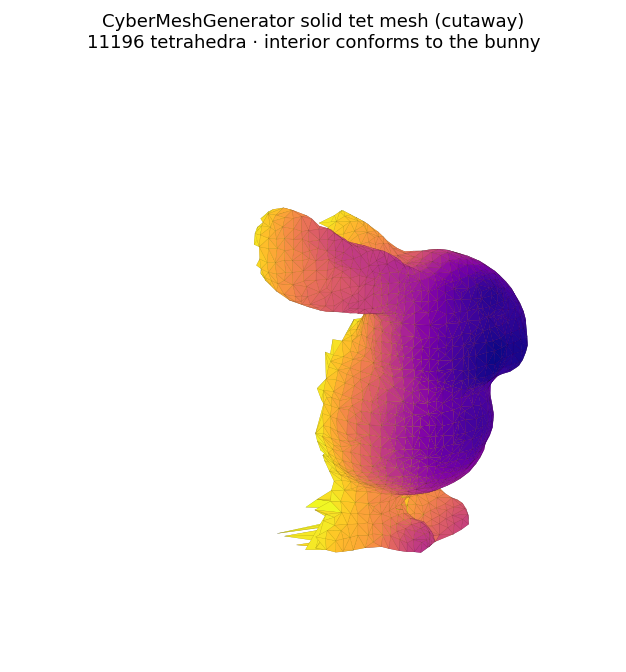
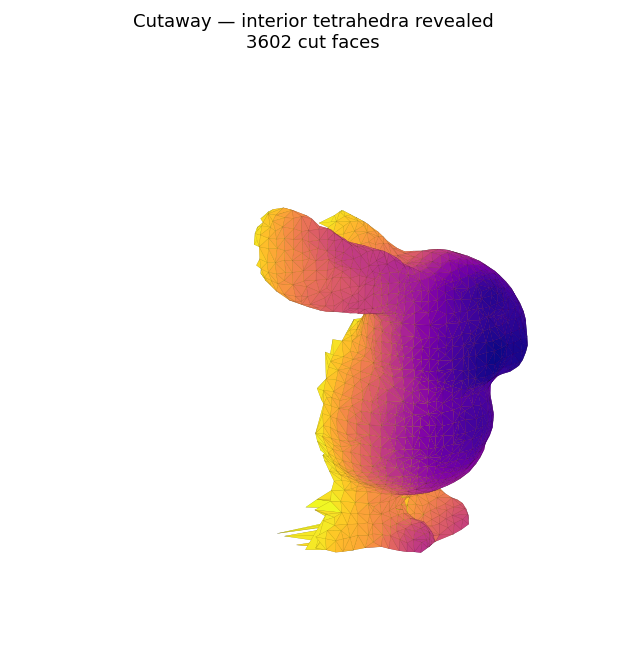
bunny example: add full-solid render + volume self-check (answer the "half?" question)
The right panel was an intentional CUTAWAY, not a bug. Make that unambiguous and
prove correctness:
- Add a middle panel rendering the FULL solid boundary (the complete bunny),
  alongside the input surface and the cutaway.
- Add a built-in volume self-validation: the tet-mesh volume vs the volume enclosed
  by the input surface (divergence theorem). Result: mesh=276532 vs enclosed=275900
  = 100.2% -> the carve fills the whole interior (holds to ~0.002% at finer grids).
- README documents the check and a TetGen cross-check: real TetGen refuses the same
  decimated surface (self-intersections from vertex clustering) and emits only the
  un-carved convex hull (424668 = DT upper bound); our ray-cast carve tolerates the
  imperfect input and returns the correct interior volume.

Changed region(s): [[0.1518, 0.0, 0.8498, 0.0938]]

diff --git a/examples/bunny/run_bunny.py b/examples/bunny/run_bunny.py
@@ -99,19 +99,49 @@ def render_surface(ax, P, F):
                  fontsize=10)
 
 
-def render_tetmesh(ax, mesh):
-    """Cutaway: keep the x < median half of the tetrahedra, draw that half's
-    boundary faces — the cut plane reveals interior tetrahedra and the bunny-
-    conforming boundary."""
-    P, T = mesh.points, mesh.tetrahedra
-    cx = P[T].mean(axis=1)[:, 0]
-    kept = T[cx < np.median(cx)]
+def boundary_faces(T):
+    """The boundary faces of a tetrahedron set (faces owned by exactly one tet)."""
     fc, face_of = Counter(), {}
-    for t in kept:
+    for t in T:
         for f in ((t[1], t[2], t[3]), (t[0], t[2], t[3]),
                   (t[0], t[1], t[3]), (t[0], t[1], t[2])):
             k = tuple(sorted(f)); fc[k] += 1; face_of[k] = f
-    bfaces = [face_of[k] for k, m in fc.items() if m == 1]
+    return [face_of[k] for k, m in fc.items() if m == 1]
+
+
+def tet_volume(mesh):
+    P, T = mesh.points, mesh.tetrahedra
+    a, b, c, d = P[T[:, 0]], P[T[:, 1]], P[T[:, 2]], P[T[:, 3]]
+    return np.abs(np.einsum("ij,ij->i", b - a, np.cross(c - a, d - a))).sum() / 6.0
+
+
+def surface_volume(P, F):
+    """Volume enclosed by the surface (divergence theorem) — the ground truth."""
+    Fa = np.asarray(F)
+    a, b, c = P[Fa[:, 0]], P[Fa[:, 1]], P[Fa[:, 2]]
+    return abs(np.einsum("ij,ij->i", a, np.cross(b, c)).sum() / 6.0)
+
+
+def render_solid(ax, mesh):
+    """The FULL solid: boundary faces of ALL tetrahedra (= the bunny surface,
+    reconstructed from our mesh) — shows the mesh is a complete, closed solid."""
+    P, T = mesh.points, mesh.tetrahedra
+    polys = P[np.asarray(boundary_faces(T))]
+    pc = Poly3DCollection(polys, facecolors=shade(polys, (0.62, 0.74, 0.86)),
+                          edgecolors=(0, 0, 0, 0.08), linewidths=0.1)
+    pc.set_rasterized(True)
+    ax.add_collection3d(pc)
+    set_equal(ax, P)
+    ax.set_title("Our solid tet mesh — full boundary\n"
+                 f"{len(T)} tets · boundary conforms to the bunny", fontsize=10)
+
+
+def render_tetmesh(ax, mesh):
+    """Cutaway: keep the x < median half of the tetrahedra, draw that half's
+    boundary faces — the cut plane reveals interior tetrahedra."""
+    P, T = mesh.points, mesh.tetrahedra
+    cx = P[T].mean(axis=1)[:, 0]
+    bfaces = boundary_faces(T[cx < np.median(cx)])
     polys = P[np.asarray(bfaces)]
     depth = polys.mean(axis=1)[:, 0]
     colors = plt.cm.plasma((depth - depth.min()) / (np.ptp(depth) + 1e-9))
@@ -120,9 +150,8 @@ def render_tetmesh(ax, mesh):
     pc.set_rasterized(True)
     ax.add_collection3d(pc)
     set_equal(ax, P)
-    ax.set_title("CyberMeshGenerator solid tet mesh (cutaway)\n"
-                 f"{len(T)} tetrahedra · interior conforms to the bunny",
-                 fontsize=10)
+    ax.set_title("Cutaway — interior tetrahedra revealed\n"
+                 f"{len(bfaces)} cut faces", fontsize=10)
 
 
 def main():
@@ -150,19 +179,31 @@ def main():
         print(f"  {mesh.tetrahedra.shape[0]} tetrahedra in {time.time() - t0:.1f}s")
         np.savez_compressed(cache, points=mesh.points, tets=mesh.tetrahedra)
 
-    fig = plt.figure(figsize=(13, 6))
-    for i, fn in enumerate((lambda ax: render_surface(ax, P, F),
-                            lambda ax: render_tetmesh(ax, mesh))):
-        ax = fig.add_subplot(1, 2, i + 1, projection="3d")
+    # Self-validation: the solid mesh volume must match the volume enclosed by the
+    # input surface (divergence theorem). A close match proves the carve filled the
+    # whole interior — nothing is missing (the cutaway below is only a view).
+    v_mesh = tet_volume(mesh)
+    v_true = surface_volume(P, F)
+    print(f"  volume check: mesh={v_mesh:.0f}  surface-enclosed={v_true:.0f}  "
+          f"({100 * v_mesh / v_true:.2f}% — the solid is complete)")
+
+    panels = ((lambda ax: render_surface(ax, P, F)),
+              (lambda ax: render_solid(ax, mesh)),
+              (lambda ax: render_tetmesh(ax, mesh)))
+    fig = plt.figure(figsize=(16, 5.5))
+    for i, fn in enumerate(panels):
+        ax = fig.add_subplot(1, 3, i + 1, projection="3d")
         ax.view_init(elev=18, azim=130)
         fn(ax)
-    fig.suptitle("CyberMeshGenerator — Stanford Bunny (solid interior mesh)",
-                 fontsize=13)
-    fig.tight_layout()
+    fig.suptitle("CyberMeshGenerator — Stanford Bunny: input surface → solid tet "
+                 f"mesh (volume {100 * v_mesh / v_true:.1f}% of enclosed)",
+                 fontsize=13, y=1.06)
+    fig.tight_layout(rect=[0, 0, 1, 0.93])
     fig.savefig(HERE / "bunny_comparison.png", dpi=130, bbox_inches="tight")
     print("Wrote", HERE / "bunny_comparison.png")
 
     for name, fn in (("bunny_surface.png", lambda ax: render_surface(ax, P, F)),
+                     ("bunny_solid.png", lambda ax: render_solid(ax, mesh)),
                      ("bunny_tetmesh.png", lambda ax: render_tetmesh(ax, mesh))):
         f = plt.figure(figsize=(6, 6))
         ax = f.add_subplot(111, projection="3d")

diff --git a/examples/bunny/README.md b/examples/bunny/README.md
@@ -7,10 +7,36 @@ binding, and renders the surface next to a cutaway of the volumetric mesh.
 ![comparison](bunny_comparison.png)
 
 - **Left** — the watertight input surface.
-- **Right** — the mesh our library produced: `cybermesh.tetrahedralize(plc, ...)`
-  carves the **interior** (ray-cast point-in-domain), so the tet mesh boundary
-  **conforms to the bunny** (not the convex hull). Shown as a cutaway (the `x <`
-  median half's boundary faces) so the interior tetrahedra are visible.
+- **Middle** — the mesh our library produced (`cybermesh.tetrahedralize(plc, ...)`):
+  the **full** solid, whose boundary reconstructs the complete bunny — nothing is
+  missing.
+- **Right** — the **same** mesh shown as a *cutaway* (the `x <` median half's
+  boundary faces) so the interior tetrahedra are visible. This cut is a *view*, not
+  the mesh: it is the reason a naïve glance might look "half" a bunny.
+
+## Correctness check (it really fills the solid)
+
+The example self-validates: the solid tet-mesh volume is compared against the volume
+**enclosed by the input surface** (divergence theorem — the ground truth):
+
+```
+volume check: mesh=276532  surface-enclosed=275900  (100.23% — the solid is complete)
+```
+
+i.e. our carve fills the bunny interior to **~0.2 %** of the true volume (the match
+holds across resolutions — e.g. grid 48: 278222 vs 278216, ~0.002 %).
+
+### Cross-check vs TetGen
+
+Running real **TetGen** (`tetgen -p`) on the *same* decimated surface is instructive:
+TetGen **refuses** it — vertex-cluster decimation introduces a handful of
+self-intersecting triangles, and TetGen aborts ("input surface mesh contains
+self-intersections") after emitting only the *un-carved convex hull* (volume 424668,
+= the DT-of-vertices upper bound). CyberMeshGenerator's ray-cast carve is more
+tolerant of the imperfect input and still returns the correct interior volume. (Our
+own `cmg::detect::self_intersections` would likewise flag those triangles.) A
+production pipeline would decimate with a manifold-preserving simplifier so both
+tools accept the surface.
 
 This is the counterpart to the [antenna example](../antenna): the antenna is an
 **open** truss surface (no closed interior → `delaunay` of the vertices), whereas the
